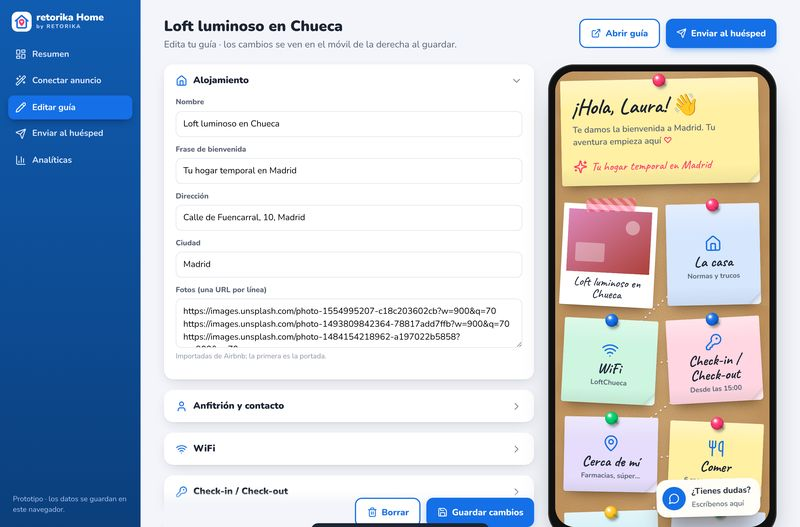
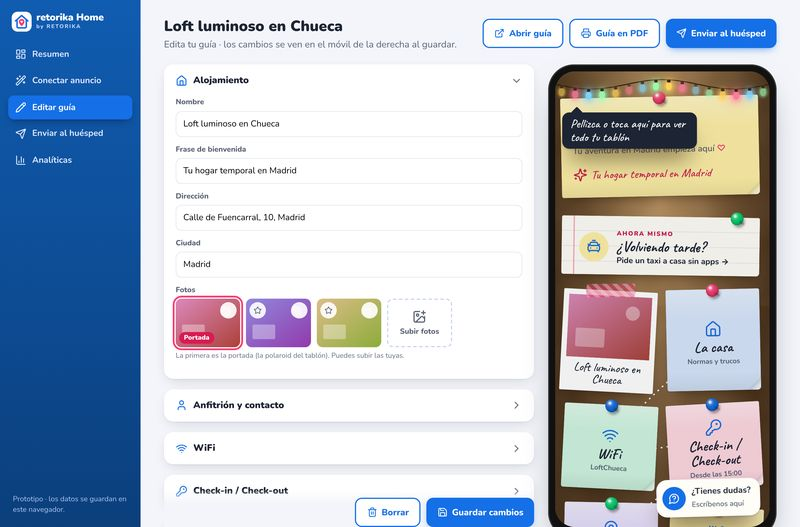
Docs: README actualizado con capturas nuevas, resumen de la noche y hoja de ruta
Claude-Session: https://claude.ai/code/session_01RW1KKwKTgGnBdXB2n69Ko4

diff --git a/README.md b/README.md
@@ -3,56 +3,87 @@
 **Tu estancia. Todo en un clic.** Es una guía digital para huéspedes de Airbnb con estética de **tablón de corcho**: notas adhesivas, chinchetas, polaroids y un hilo rojo que une el viaje. Incluye también un **panel para el propietario**: pega el enlace de su anuncio y la guía se autocompleta.
 
 <p>
-  <img src="docs/capturas/tablon-movil.jpg" width="230" alt="Tablón en el móvil">
-  <img src="docs/capturas/mi-viaje.jpg" width="230" alt="Mi viaje">
-  <img src="docs/capturas/moverme.jpg" width="230" alt="Moverme: taxi sin apps">
+  <img src="docs/capturas/tablon-movil.jpg" width="200" alt="Tablón en el móvil">
+  <img src="docs/capturas/ficha-sitio.jpg" width="200" alt="Ficha de un sitio con la nota del anfitrión">
+  <img src="docs/capturas/mi-viaje.jpg" width="200" alt="Mi viaje con polaroids e hilo rojo">
+  <img src="docs/capturas/modo-noche.jpg" width="200" alt="Modo noche con guirnalda">
 </p>
-<img src="docs/capturas/tablon-escritorio.jpg" width="700" alt="Tablón en escritorio">
-<img src="docs/capturas/panel-importar.jpg" width="700" alt="Panel: importar desde Airbnb">
+<p>
+  <img src="docs/capturas/tablon-escritorio.jpg" width="620" alt="Tablón en escritorio, de noche">
+</p>
+<p>
+  <img src="docs/capturas/panel-importar.jpg" width="410" alt="Panel: importar desde Airbnb">
+  <img src="docs/capturas/panel-editor.jpg" width="410" alt="Panel: editor con vista previa">
+</p>
 
-👉 **El concepto completo** (experiencia, decisiones de diseño, taxis, importador de Airbnb, aspectos legales, hoja de ruta y modelo de negocio) está en **[docs/CONCEPTO.md](docs/CONCEPTO.md)**.
+- 👉 **El concepto completo** (experiencia, diseño, taxis sin app, importador de Airbnb, aspectos legales, hoja de ruta y negocio): **[docs/CONCEPTO.md](docs/CONCEPTO.md)**
+- 🌙 **Qué se hizo la noche del 7 al 8 de octubre**, tanda por tanda: **[docs/DIARIO-NOCHE.md](docs/DIARIO-NOCHE.md)**
 
 ## Arrancar
 
 ```bash
-node server.mjs          # Node 18+, sin npm install
+node server.mjs          # Node 18+, sin instalar nada
 ```
 
-- Guía demo: http://localhost:5173/?guide=granvia&g=Laura&in=2026-10-08&out=2026-10-11
-- Panel: http://localhost:5173/panel.html
+| | URL |
+|---|---|
+| Guía demo | http://localhost:5173/?guide=granvia&g=Laura&in=2026-10-08&out=2026-10-11 |
+| Panel del propietario | http://localhost:5173/panel.html |
+| Guía imprimible (PDF) | http://localhost:5173/print.html?guide=granvia |
+| Probar otra hora / modo noche | añade `&time=22&night=1` a la guía |
 
-Para tener **valoraciones reales** (restaurantes "mejor valorados"):
-
-```bash
-GOOGLE_PLACES_KEY=xxxx node server.mjs
-```
-
-Sin clave se usa OpenStreetMap, que es gratis y está ordenado por cercanía.
+**Valoraciones reales** de restaurantes ("mejor valorados"): `GOOGLE_PLACES_KEY=xxxx node server.mjs`. Sin clave se usa OpenStreetMap, que es gratis pero no tiene valoraciones, así que ordena por cercanía.
 
 ## Qué hace
 
-**Huésped**
-- Tablón animado: las notas caen, las chinchetas se clavan, hay un camino punteado entre notas y de vez en cuando alguna se balancea.
-- Al tocar una nota, se levanta y se abre como hoja de detalle.
-- Vista general con zoom (botón o pellizco) y "Estás aquí".
-- WiFi con QR para conectarse directamente.
-- Checklist de salida y recordatorio en el calendario.
-- "Cerca de mí" en vivo: mapa con chinchetas, farmacias 24 h, súper, metro…
-- ♥ en un sitio lo guarda en **Mi viaje**: polaroids numeradas, hilo rojo, días, notas propias, ruta en Google Maps y opción de compartir.
+**Para el huésped**
+- **El tablón**:
+  - Las notas caen y las chinchetas se clavan; un camino punteado las une.
+  - Al tocar una nota, se levanta y se abre.
+  - Pellizcar o tocar 🔍 muestra todo el tablón, con un "Estás aquí".
+- **Ahora mismo**: una nota que cambia según la hora, el tiempo y el día (desayuno, plan de tarde, plan a cubierto si llueve, cena, taxi de madrugada, "hoy llegas" o "hoy te vas").
+- **Modo noche** con guirnalda de luces, de 21:00 a 7:00.
+- **WiFi** con QR para conectarse, lista para el check-out y recordatorio en el calendario.
+- **Cerca de mí** en vivo (farmacias 24 h primero, súper, metro…). Si no hay conexión, avisa y deja reintentar.
+- **Ficha de cada sitio**: polaroid grande, **nota manuscrita del anfitrión**, mini mapa, cómo llegar y Uber.
+- **Mi viaje**:
+  - ♥ guarda un sitio y lo pincha en tu propio tablón, con polaroids numeradas e hilo rojo.
+  - Se puede repartir por días y escribir notas propias.
+  - Se reordena **arrastrando**, y la ruta se puede **ordenar por cercanía**.
+  - Abre la ruta en Google Maps.
 - **Taxi sin apps**: Uber web con origen y destino ya rellenos, radio-taxi por teléfono, tarjeta "enséñale esto al taxista" y "Volver a casa".
-- ES/EN y modo sin conexión (service worker).
+- **¿Tienes dudas?**: encuentra la respuesta dentro de la guía al instante. Si no la sabe, prepara el WhatsApp al anfitrión.
+- **5 idiomas** (ES/EN/FR/IT/DE): se elige solo según el móvil del huésped.
+- Funciona **sin datos** gracias al service worker.
 
-**Propietario**
-- Pega el enlace de Airbnb y se importan título, fotos, ubicación, anfitrión, horarios y comodidades, mientras el tablón se monta en directo.
-- Confirma la ubicación arrastrando la chincheta.
-- Recomendaciones automáticas: restaurantes mejor valorados, qué ver, metro y hospital.
-- Editor con vista previa en un móvil.
-- Enlace personalizado por huésped, mensaje de WhatsApp listo y cartel QR imprimible.
-- Analíticas de uso.
+**Para el propietario**
+- **Pega el enlace de Airbnb** y se importan título, fotos, ubicación, anfitrión, horarios y comodidades, mientras el tablón se monta en directo.
+- Confirma la ubicación **arrastrando la chincheta**.
+- **Recomendaciones automáticas**: restaurantes mejor valorados, qué ver, metro y hospital.
+- **Editor con vista previa en un móvil**:
+  - Subir fotos y elegir la portada.
+  - Foto del anfitrión.
+  - Recomendaciones con nota propia, orden y favoritos.
+- **Enviar al huésped**: enlace personalizado (nombre y fechas), mensaje de WhatsApp listo, QR y cartel imprimible.
+- **Guía en PDF** (A4, 4 páginas), con un QR de ruta para cada sitio.
+- **Analíticas**: secciones más vistas y **qué preguntan los huéspedes**. Las preguntas que la guía no supo responder aparecen destacadas.
+
+## Calidad
+
+```bash
+npm install          # solo para las pruebas (Playwright, axe-core)
+npm test             # 27 pruebas unitarias
+npm run test:e2e     # 33 pruebas en navegador real (red simulada)
+```
+
+- Las pruebas en navegador recorren la web entera como lo haría una persona.
+- Incluyen **accesibilidad con axe-core (0 violaciones)**, **seguridad frente a XSS**, modo sin conexión y el PDF.
+- Se ejecutan solas en **GitHub Actions** en cada push.
+- `node tools/build-icons.mjs` regenera el paquete de iconos: solo los usados, 25 KB.
 
 ## Despliegue
 - **Netlify**: el repo ya está preparado (`netlify.toml` + `netlify/functions`). Variable opcional: `GOOGLE_PLACES_KEY`.
 - **Hosting estático** (GitHub Pages…): la guía funciona entera. Lo único que necesita servidor es el importador de Airbnb; sin él, el panel ofrece entrar la dirección a mano o probar el ejemplo.
 
 ## Estado
-Es un prototipo funcional: los datos se guardan en el navegador (`localStorage`). El siguiente paso (base de datos, cuentas, IA…) está en la hoja de ruta de `docs/CONCEPTO.md`.
+Es un **prototipo funcional**: los datos se guardan en el navegador. El siguiente paso es base de datos y cuentas, asistente con IA, traducción automática e integración con las reservas; está en la hoja de ruta de `docs/CONCEPTO.md`.

diff --git a/docs/DIARIO-NOCHE.md b/docs/DIARIO-NOCHE.md
@@ -2,6 +2,18 @@
 
 Qué se ha ido añadiendo mientras dormías, tanda por tanda.
 
+> **Resumen rápido**
+> - **Nuevo para el huésped:**
+>   - Buscador "¿Tienes dudas?" y nota "Ahora mismo" según la hora y el tiempo.
+>   - Modo noche con guirnalda y ficha de cada sitio con la nota del anfitrión.
+>   - "Mi viaje" se reordena arrastrando y la ruta se puede optimizar.
+>   - 5 idiomas, cuenta atrás de la estancia y guía en PDF.
+> - **Nuevo para el propietario:** fotos propias, notas por recomendación y ver qué preguntan sus huéspedes.
+> - **Calidad:**
+>   - Accesibilidad sin errores e iconos 14 veces más ligeros.
+>   - **60 tests automáticos** con CI.
+>   - **3 fallos encontrados y corregidos gracias a las pruebas**: los clics se duplicaban al navegar, los datos corruptos rompían la guía y faltaba el aviso de sin conexión.
+
 ## Tanda 1: "¿Tienes dudas?" de verdad
 - **Buscador de respuestas dentro de la guía.** El botón "¿Tienes dudas?" ya no abre WhatsApp directamente: abre un pósit grande con un buscador.
   - Encuentra la respuesta en la propia guía al instante y sin conexión (WiFi, check-out, basura, maletas, normas, taxis…). Entiende español e inglés.

diff --git a/docs/CONCEPTO.md b/docs/CONCEPTO.md
@@ -143,9 +143,22 @@ sw.js                      modo sin conexión
 
 ## 6. Hoja de ruta propuesta
 
+> **Ya hecho en el prototipo:**
+> - "¿Tienes dudas?" con buscador dentro de la guía (sin IA, funciona sin conexión).
+> - Interfaz en 5 idiomas.
+> - Nota "Ahora mismo" contextual y modo noche.
+> - Ficha de sitio con la nota del anfitrión.
+> - Reordenar Mi viaje arrastrando.
+> - Subida de fotos.
+> - Guía en PDF.
+> - Analíticas con las preguntas de los huéspedes.
+> - Accesibilidad AA.
+> - 60 tests automáticos y CI.
+>
+> Detalle en [DIARIO-NOCHE.md](DIARIO-NOCHE.md).
+
 **Fase 1 · MVP real (lo que falta para tener clientes)**
 - Base de datos y cuentas: Supabase (Postgres + Auth + Storage). Las tablas serían `guides`, `bookings`, `events`, `trips` y `recommendations`.
-- Subir fotos propias, ahora mismo se usan URLs.
 - Analíticas en el servidor, que sustituyan a las del navegador.
 - Dominio y enlaces cortos (`home.retorika.es/granvia`).
 - Pasar la guía y el panel por una auditoría de accesibilidad.
